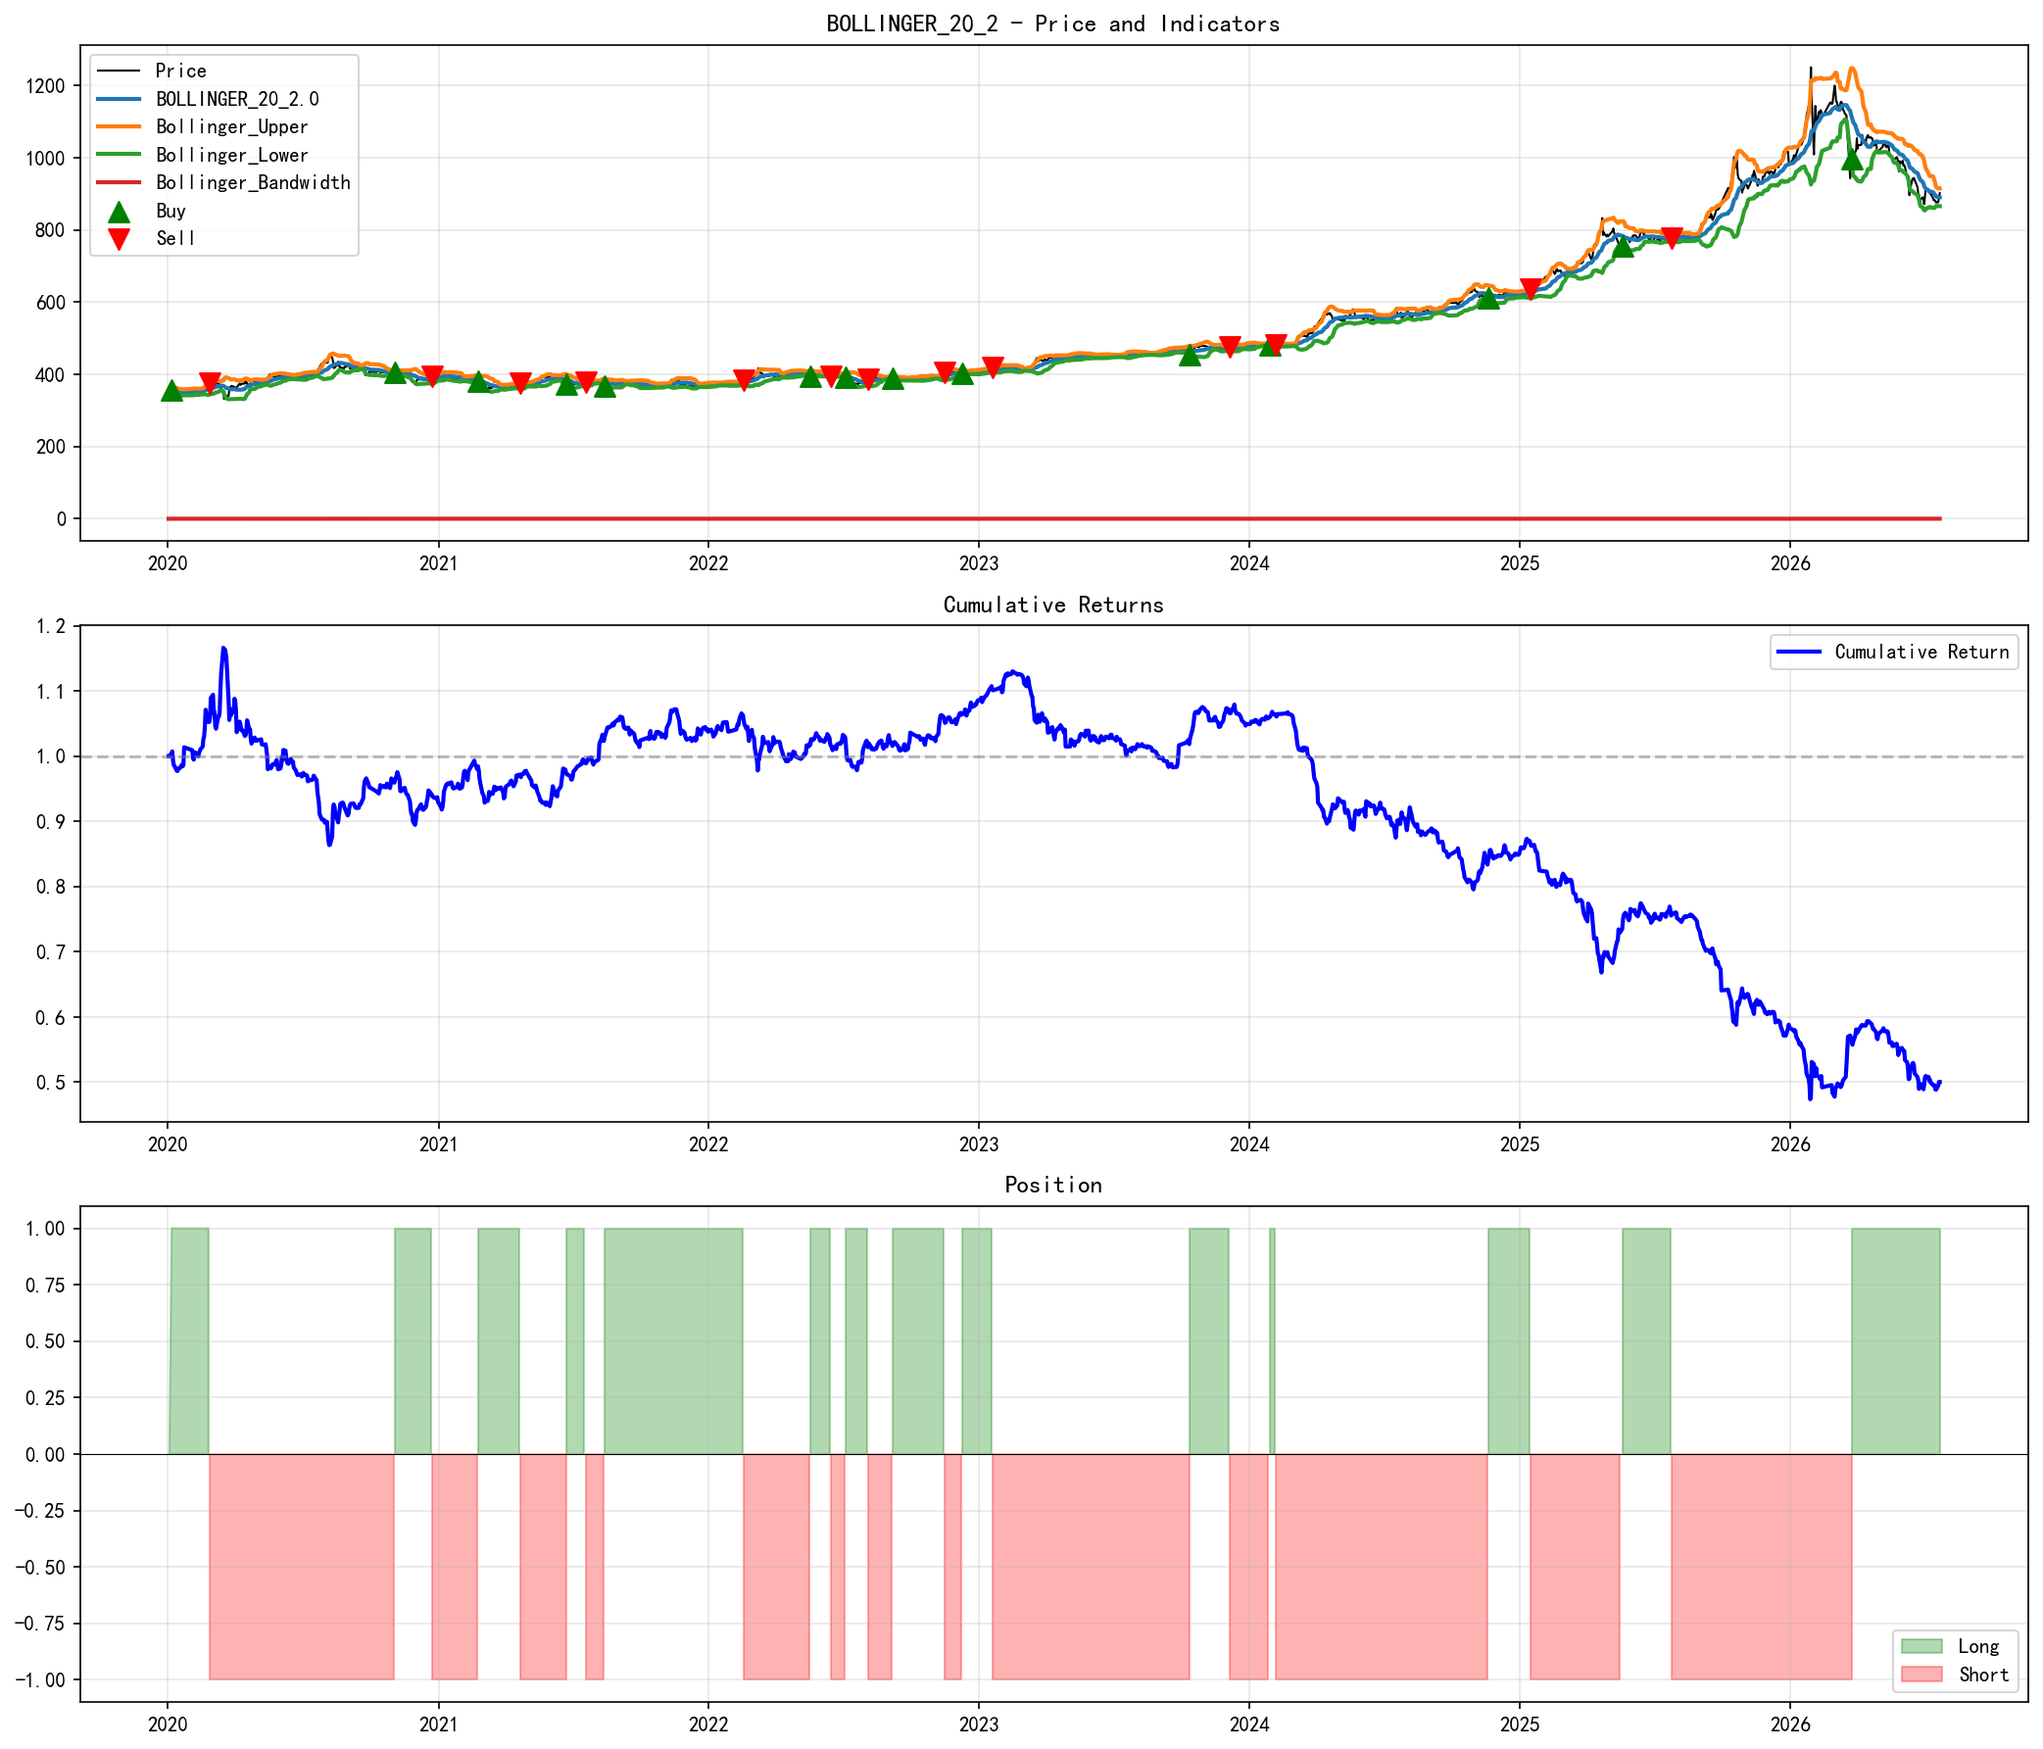
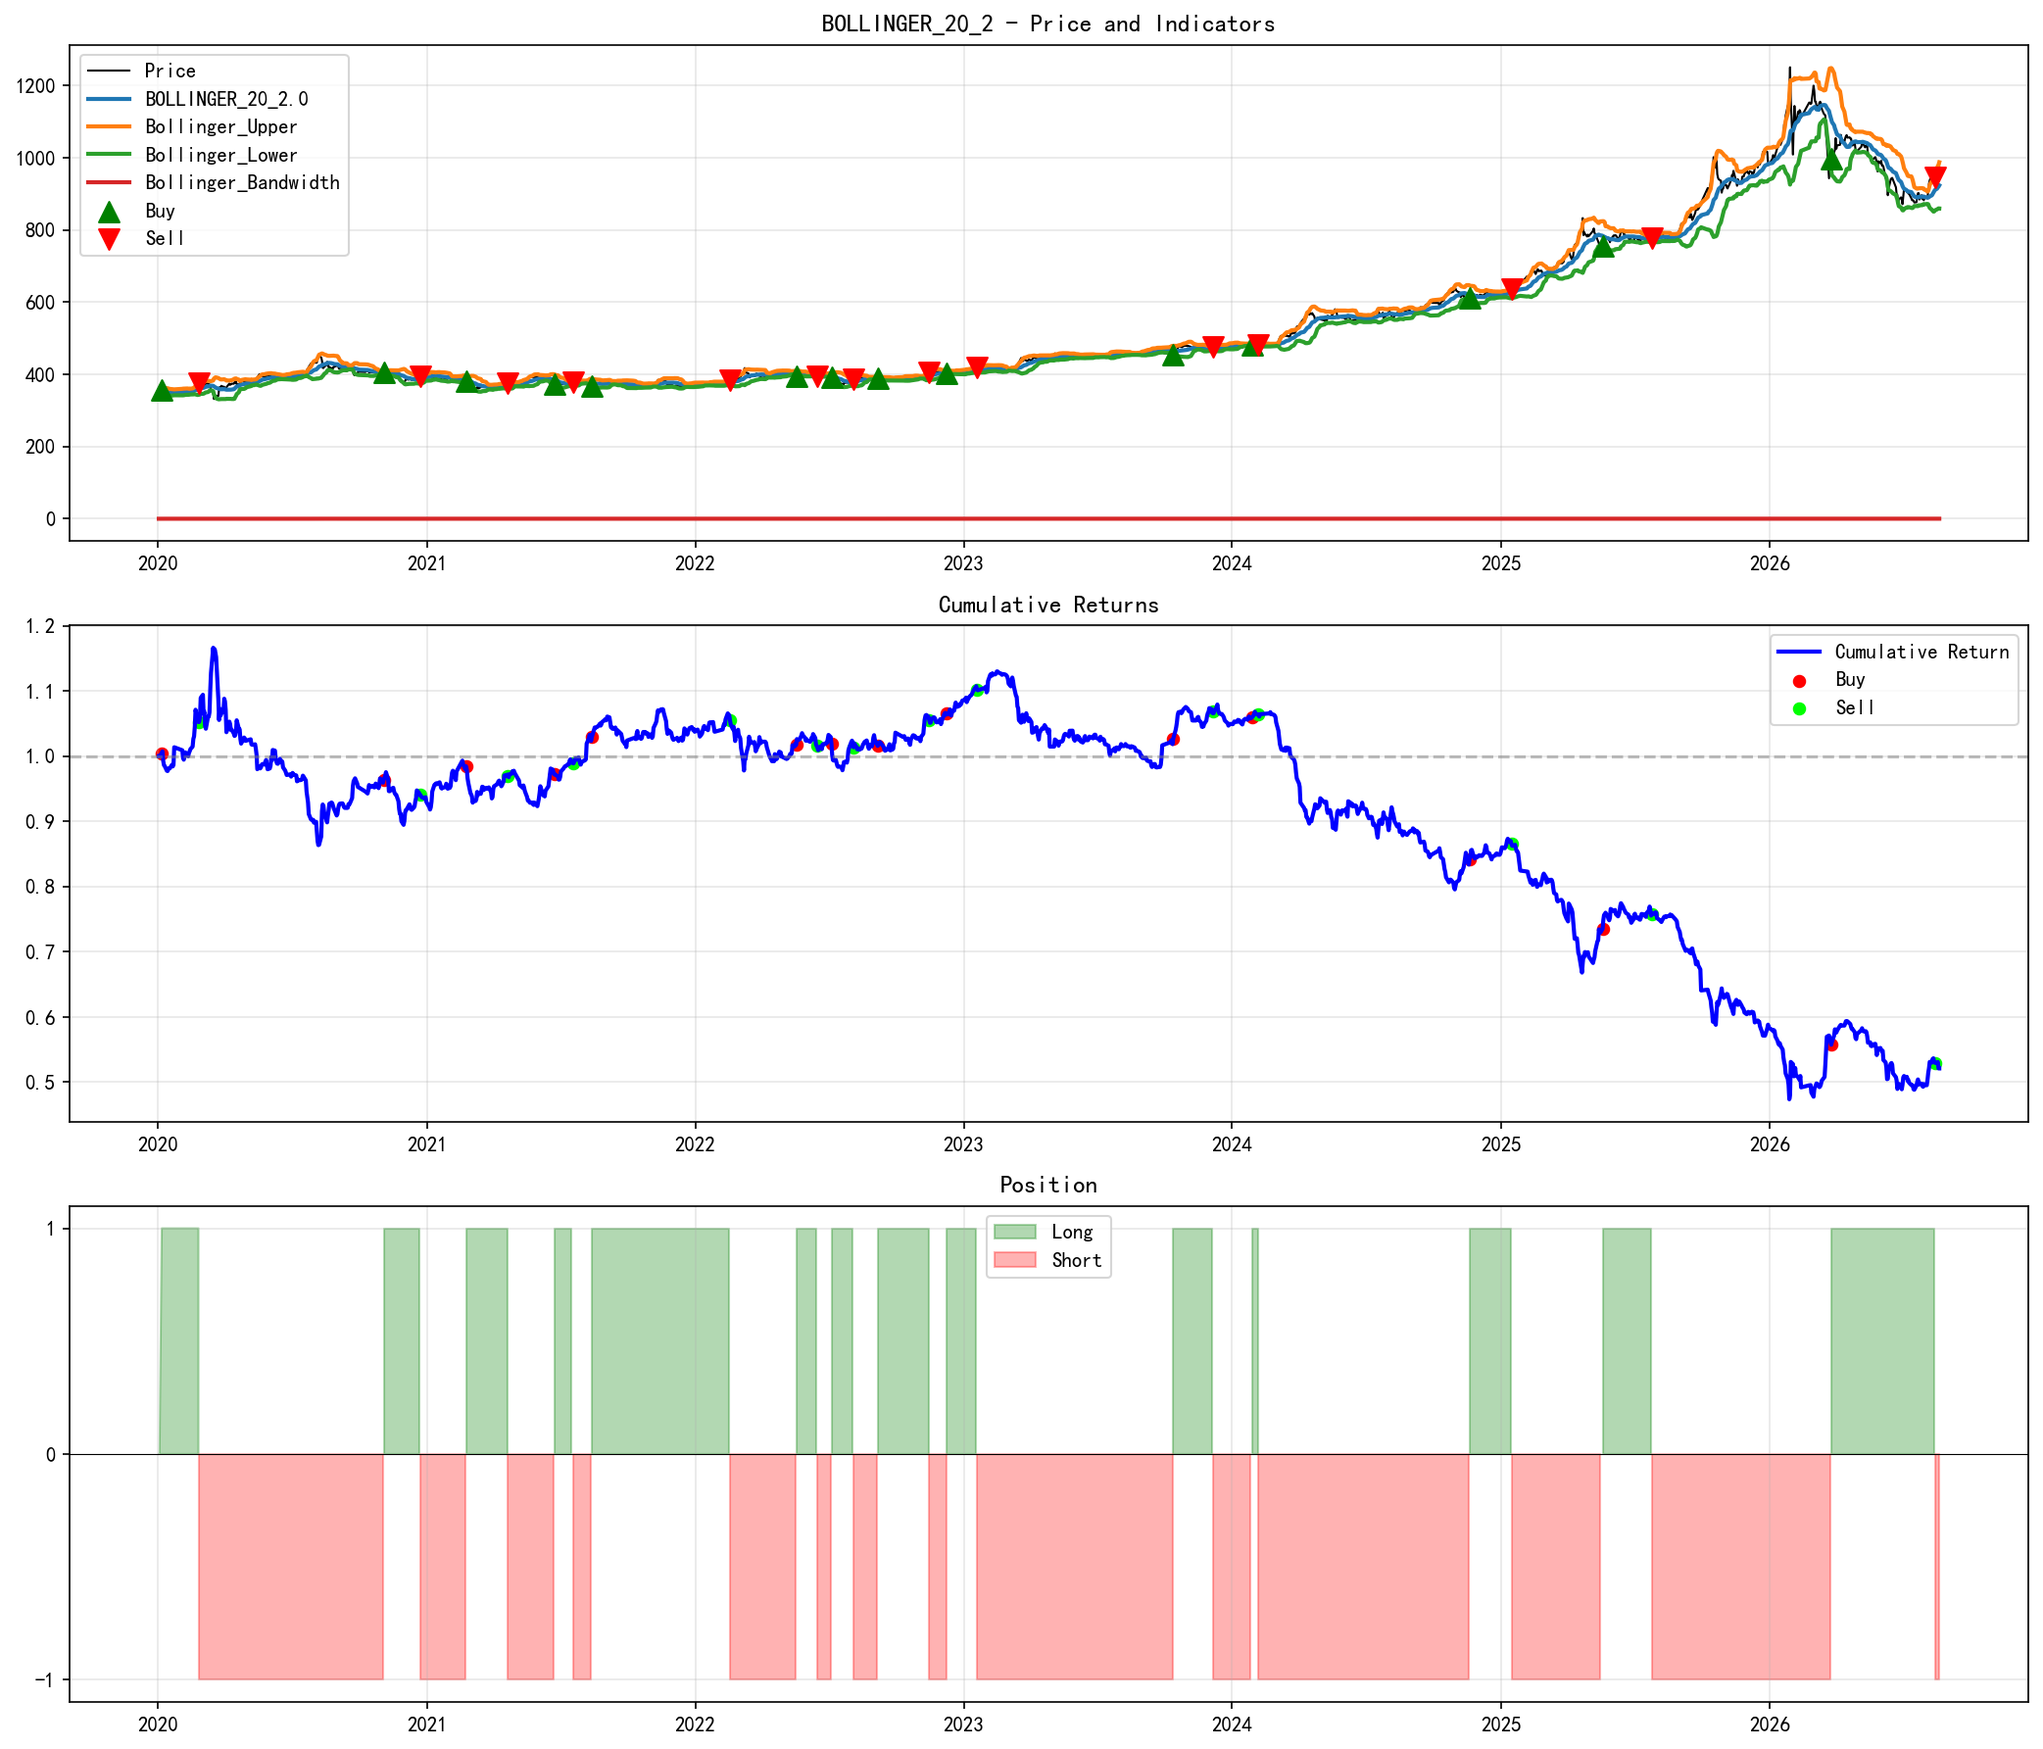
docs: sync project results through 2026-08-20

diff --git a/project-quant-trading.html b/project-quant-trading.html
@@ -59,7 +59,7 @@
           <div class="stat-label"><span data-lang="cn">回测周期</span><span data-lang="en">Backtest Period</span></div>
         </div>
         <div class="stat-card">
-          <div class="stat-number">179<span style="font-size:1.2rem">%</span></div>
+          <div class="stat-number">157<span style="font-size:1.2rem">%</span></div>
           <div class="stat-label"><span data-lang="cn">最高累积收益</span><span data-lang="en">Best Cumulative Return</span></div>
         </div>
       </div>
@@ -123,93 +123,93 @@
           <tbody>
             <tr>
               <td><strong>TMA (10/30/90)</strong></td>
-              <td class="highlight">178.92%</td>
-              <td class="highlight">16.95%</td>
+              <td class="highlight">156.75%</td>
+              <td class="highlight">15.28%</td>
               <td class="negative">-25.20%</td>
               <td>10</td>
               <td>50.00%</td>
-              <td>16.71%</td>
+              <td>15.96%</td>
             </tr>
             <tr>
               <td><strong>TMA (5/20/60)</strong></td>
-              <td class="highlight">159.45%</td>
-              <td class="highlight">15.66%</td>
+              <td class="highlight">138.83%</td>
+              <td class="highlight">14.03%</td>
               <td class="negative">-22.07%</td>
               <td>14</td>
               <td>42.86%</td>
-              <td>11.39%</td>
+              <td>10.85%</td>
             </tr>
             <tr>
               <td><strong>EWMA Long-Only</strong></td>
-              <td class="highlight">114.54%</td>
-              <td class="highlight">12.36%</td>
+              <td class="highlight">126.11%</td>
+              <td class="highlight">13.09%</td>
               <td class="negative">-17.27%</td>
-              <td>89</td>
-              <td>46.07%</td>
-              <td>0.98%</td>
-            </tr>
-            <tr>
-              <td><strong>Donchian (50)</strong></td>
-              <td class="highlight">84.20%</td>
-              <td class="highlight">9.77%</td>
-              <td class="negative">-29.48%</td>
-              <td>12</td>
-              <td>50.00%</td>
-              <td>7.86%</td>
+              <td>90</td>
+              <td>46.67%</td>
+              <td>1.02%</td>
             </tr>
             <tr>
               <td><strong>Donchian (20)</strong></td>
-              <td class="highlight">83.90%</td>
-              <td class="highlight">9.75%</td>
+              <td class="highlight">83.43%</td>
+              <td class="highlight">9.58%</td>
               <td class="negative">-23.54%</td>
-              <td>22</td>
-              <td>54.55%</td>
-              <td>3.17%</td>
+              <td>23</td>
+              <td>56.52%</td>
+              <td>3.05%</td>
             </tr>
             <tr>
               <td><strong>EWMA Long-Short</strong></td>
-              <td class="highlight">73.87%</td>
-              <td class="highlight">8.81%</td>
+              <td class="highlight">77.98%</td>
+              <td class="highlight">9.08%</td>
               <td class="negative">-19.57%</td>
-              <td>179</td>
-              <td>36.87%</td>
-              <td>0.37%</td>
+              <td>180</td>
+              <td>37.22%</td>
+              <td>0.39%</td>
+            </tr>
+            <tr>
+              <td><strong>Donchian (50)</strong></td>
+              <td class="highlight">69.56%</td>
+              <td class="highlight">8.29%</td>
+              <td class="negative">-29.48%</td>
+              <td>12</td>
+              <td>50.00%</td>
+              <td>7.23%</td>
             </tr>
             <tr>
               <td><strong>MACD</strong></td>
-              <td class="highlight">13.17%</td>
-              <td class="highlight">1.91%</td>
+              <td class="highlight">22.65%</td>
+              <td class="highlight">3.13%</td>
               <td class="negative">-18.48%</td>
               <td>135</td>
-              <td>31.85%</td>
-              <td>0.15%</td>
+              <td>32.59%</td>
+              <td>0.21%</td>
             </tr>
             <tr>
               <td><strong>RSI</strong></td>
-              <td class="negative">-40.79%</td>
-              <td class="negative">-7.69%</td>
+              <td class="negative">-38.34%</td>
+              <td class="negative">-7.03%</td>
               <td class="negative">-60.84%</td>
-              <td>10</td>
-              <td>50.00%</td>
-              <td>-7.15%</td>
+              <td>11</td>
+              <td>45.45%</td>
+              <td>-6.17%</td>
             </tr>
             <tr>
               <td><strong>Bollinger (20, 2.0)</strong></td>
-              <td class="negative">-49.96%</td>
-              <td class="negative">-10.03%</td>
+              <td class="negative">-47.89%</td>
+              <td class="negative">-9.36%</td>
               <td class="negative">-59.37%</td>
-              <td>27</td>
-              <td>51.85%</td>
-              <td>-2.51%</td>
+              <td>28</td>
+              <td>50.00%</td>
+              <td>-2.29%</td>
             </tr>
             <tr>
               <td><strong>Bollinger (20, 1.5)</strong></td>
-              <td class="negative">-68.35%</td>
-              <td class="negative">-16.10%</td>
+              <td class="negative">-66.81%</td>
+              <td class="negative">-15.32%</td>
               <td class="negative">-70.34%</td>
-              <td>35</td>
-              <td>42.86%</td>
-              <td>-3.30%</td>
+              <td>36</td>
+              <td>41.67%</td>
+              <td>-3.10%</td>
             </tr>
           </tbody>
         </table>
@@ -229,43 +229,43 @@
       <div class="gallery">
         <div class="gallery-item fade-in">
           <img src="assets/plots/TMA_5_20_60.png" alt="TMA 5/20/60" loading="lazy">
-          <div class="gallery-caption">TMA (5/20/60) — <span data-lang="cn">累积收益 159.45%</span><span data-lang="en">Cumulative Return 159.45%</span></div>
+          <div class="gallery-caption">TMA (5/20/60) — <span data-lang="cn">累积收益 138.83%</span><span data-lang="en">Cumulative Return 138.83%</span></div>
         </div>
         <div class="gallery-item fade-in">
           <img src="assets/plots/TMA_10_30_90.png" alt="TMA 10/30/90" loading="lazy">
-          <div class="gallery-caption">TMA (10/30/90) — <span data-lang="cn">累积收益 178.92%</span><span data-lang="en">Cumulative Return 178.92%</span></div>
+          <div class="gallery-caption">TMA (10/30/90) — <span data-lang="cn">累积收益 156.75%</span><span data-lang="en">Cumulative Return 156.75%</span></div>
         </div>
         <div class="gallery-item fade-in">
           <img src="assets/plots/EWMA_LONG_ONLY_30.png" alt="EWMA Long-Only" loading="lazy">
-          <div class="gallery-caption">EWMA Long-Only — <span data-lang="cn">累积收益 114.54%</span><span data-lang="en">Cumulative Return 114.54%</span></div>
+          <div class="gallery-caption">EWMA Long-Only — <span data-lang="cn">累积收益 126.11%</span><span data-lang="en">Cumulative Return 126.11%</span></div>
         </div>
         <div class="gallery-item fade-in">
           <img src="assets/plots/DONCHIAN_20.png" alt="Donchian 20" loading="lazy">
-          <div class="gallery-caption">Donchian (20) — <span data-lang="cn">累积收益 83.90%</span><span data-lang="en">Cumulative Return 83.90%</span></div>
+          <div class="gallery-caption">Donchian (20) — <span data-lang="cn">累积收益 83.43%</span><span data-lang="en">Cumulative Return 83.43%</span></div>
         </div>
         <div class="gallery-item fade-in">
           <img src="assets/plots/DONCHIAN_50.png" alt="Donchian 50" loading="lazy">
-          <div class="gallery-caption">Donchian (50)</div>
+          <div class="gallery-caption">Donchian (50) — <span data-lang="cn">累积收益 69.56%</span><span data-lang="en">Cumulative Return 69.56%</span></div>
         </div>
         <div class="gallery-item fade-in">
           <img src="assets/plots/EWMA_30.png" alt="EWMA Long-Short" loading="lazy">
-          <div class="gallery-caption">EWMA Long-Short</div>
+          <div class="gallery-caption">EWMA Long-Short — <span data-lang="cn">累积收益 77.98%</span><span data-lang="en">Cumulative Return 77.98%</span></div>
         </div>
         <div class="gallery-item fade-in">
           <img src="assets/plots/MACD_12_26_9.png" alt="MACD" loading="lazy">
-          <div class="gallery-caption">MACD (12/26/9)</div>
+          <div class="gallery-caption">MACD (12/26/9) — <span data-lang="cn">累积收益 22.65%</span><span data-lang="en">Cumulative Return 22.65%</span></div>
         </div>
         <div class="gallery-item fade-in">
           <img src="assets/plots/RSI_14_30_70.png" alt="RSI" loading="lazy">
-          <div class="gallery-caption">RSI (14, 30/70)</div>
+          <div class="gallery-caption">RSI (14, 30/70) — <span data-lang="cn">累积收益 -38.34%</span><span data-lang="en">Cumulative Return -38.34%</span></div>
         </div>
         <div class="gallery-item fade-in">
           <img src="assets/plots/BOLLINGER_20_2.png" alt="Bollinger 2.0" loading="lazy">
-          <div class="gallery-caption">Bollinger (20, 2.0)</div>
+          <div class="gallery-caption">Bollinger (20, 2.0) — <span data-lang="cn">累积收益 -47.89%</span><span data-lang="en">Cumulative Return -47.89%</span></div>
         </div>
         <div class="gallery-item fade-in">
           <img src="assets/plots/BOLLINGER_20_1.5.png" alt="Bollinger 1.5" loading="lazy">
-          <div class="gallery-caption">Bollinger (20, 1.5)</div>
+          <div class="gallery-caption">Bollinger (20, 1.5) — <span data-lang="cn">累积收益 -66.81%</span><span data-lang="en">Cumulative Return -66.81%</span></div>
         </div>
       </div>
     </div>

diff --git a/project-margin-model.html b/project-margin-model.html
@@ -65,7 +65,7 @@
           <div class="stat-label"><span data-lang="cn">VaR 置信水平</span><span data-lang="en">VaR Levels</span></div>
         </div>
         <div class="stat-card">
-          <div class="stat-number">~7,954</div>
+          <div class="stat-number">~7,996</div>
           <div class="stat-label"><span data-lang="cn">总交易日数据</span><span data-lang="en">Total Trading Days</span></div>
         </div>
         <div class="stat-card">
@@ -136,11 +136,11 @@
       <div class="gallery" style="grid-template-columns: repeat(auto-fit, minmax(400px, 1fr))">
         <div class="gallery-item fade-in">
           <img src="assets/plots/margin_model_Au.png" alt="Au Backtest" loading="lazy">
-          <div class="gallery-caption"><span data-lang="cn">黄金 (Au) — 2008-01-09 ~ 2026-07-22</span><span data-lang="en">Gold (Au) — 2008-01-09 ~ 2026-07-22</span></div>
+          <div class="gallery-caption"><span data-lang="cn">黄金 (Au) — 2008-01-09 ~ 2026-08-20</span><span data-lang="en">Gold (Au) — 2008-01-09 ~ 2026-08-20</span></div>
         </div>
         <div class="gallery-item fade-in">
           <img src="assets/plots/margin_model_Ag.png" alt="Ag Backtest" loading="lazy">
-          <div class="gallery-caption"><span data-lang="cn">白银 (Ag) — 2012-05-10 ~ 2026-07-22</span><span data-lang="en">Silver (Ag) — 2012-05-10 ~ 2026-07-22</span></div>
+          <div class="gallery-caption"><span data-lang="cn">白银 (Ag) — 2012-05-10 ~ 2026-08-20</span><span data-lang="en">Silver (Ag) — 2012-05-10 ~ 2026-08-20</span></div>
         </div>
       </div>
     </div>
@@ -167,31 +167,31 @@
               <td><strong>Au</strong></td>
               <td><span data-lang="cn">方法一（含阈值）</span><span data-lang="en">Method 1 (w/ threshold)</span></td>
               <td>87</td>
-              <td>4,503</td>
-              <td>1.93%</td>
+              <td>4,524</td>
+              <td>1.92%</td>
               <td>8</td>
             </tr>
             <tr>
               <td><strong>Au</strong></td>
               <td><span data-lang="cn">方法二（η=1.8）</span><span data-lang="en">Method 2 (η=1.8)</span></td>
               <td>39</td>
-              <td>4,503</td>
-              <td>0.87%</td>
+              <td>4,524</td>
+              <td>0.86%</td>
               <td>5</td>
             </tr>
             <tr>
               <td><strong>Ag</strong></td>
               <td><span data-lang="cn">方法一（含阈值）</span><span data-lang="en">Method 1 (w/ threshold)</span></td>
               <td>57</td>
-              <td>3,451</td>
-              <td>1.65%</td>
+              <td>3,472</td>
+              <td>1.64%</td>
               <td>10</td>
             </tr>
             <tr>
               <td><strong>Ag</strong></td>
               <td><span data-lang="cn">方法二（η=1.8）</span><span data-lang="en">Method 2 (η=1.8)</span></td>
               <td>27</td>
-              <td>3,451</td>
+              <td>3,472</td>
               <td>0.78%</td>
               <td>1</td>
             </tr>
